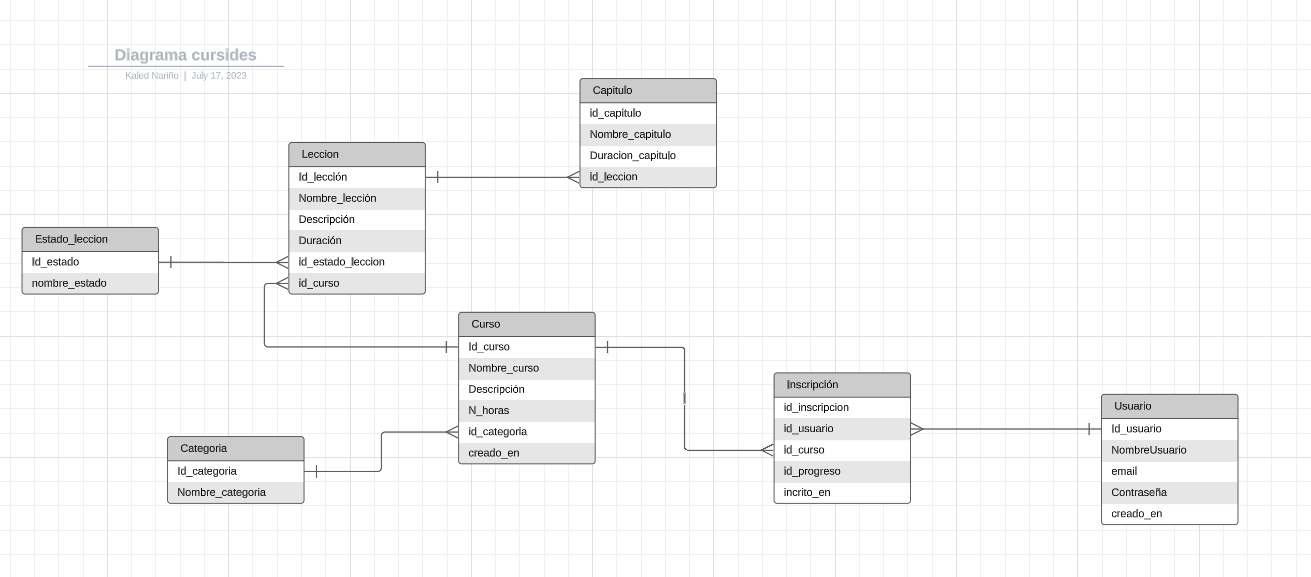
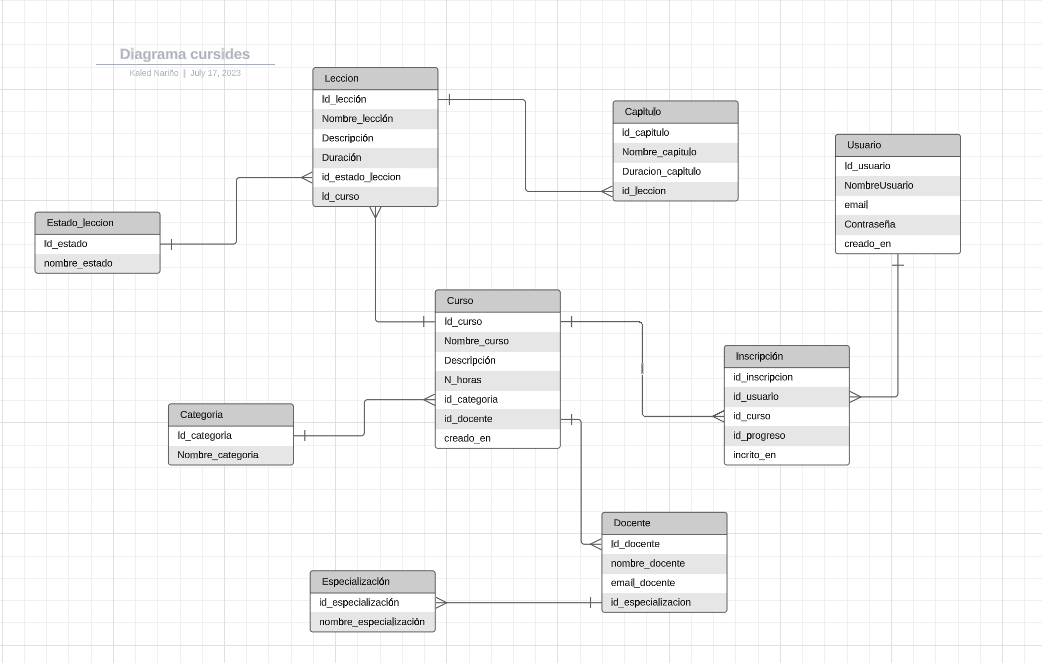
docs: :memo: Actualizacion de documentación
Añadi mas tablas, al modelo relacional y se redacto el objetivo

diff --git a/README.md b/README.md
@@ -9,7 +9,7 @@ Este proyecto constara con las siguientes tablas:
 - ``progreso``
 
 ## Objetivo general
-Brindar al internauta un contenido de apoyo y de calidad, donde el consumidor pueda incrementar sus habilidades en el entorno de la programación y sus diferentes tecnologias.
+Brindar al internauta un contenido de apoyo y de calidad sobre desarrollo web, donde el consumidor pueda incrementar sus habilidades en el entorno de la programación y sus diferentes tecnologias. Tendra acceso a cursos, lecciones, categorias, comentarios, lo que que hace que la navegación tenga mas interactividad.
 
 ## Objetivos especificos
 - Crear estructura de la base de datos, que cuente con los siguientes parametros: normalización, actualización, unificación, integridad de los datos
